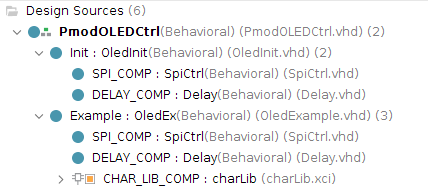
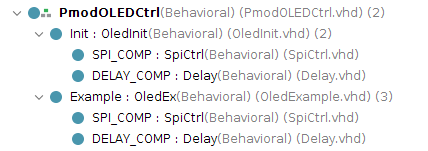
Updated README
By: AndresCasasola (andres97dominguez@gmail.com)

Changed region(s): [[0.0607, 0.4503, 0.9416, 0.9801], [0.0, 0.0265, 0.9112, 0.4238]]

diff --git a/README.md b/README.md
@@ -2,7 +2,9 @@
 
 ZedBoard´s first examples to getting started with vivado and vhdl programing
 
-![ZedBoard](https://github.com/AndresCasasola/ZedBoard-Examples/raw/master/Resources/Images/zedboard.jpg)
+<p align="center">
+  <img width="500" height="349" src="https://github.com/AndresCasasola/ZedBoard-Examples/raw/master/Resources/Images/zedboard.jpg">
+</p>
 
 ## Order to test the projects:
 
@@ -23,7 +25,7 @@ ZedBoard´s first examples to getting started with vivado and vhdl programing
 - Here is the file´s hierarchy in this project:
 
 <p align="center">
-  <img width="428" height="193" src="https://github.com/AndresCasasola/ZedBoard-Examples/raw/master/Resources/Images/oled_hierarchy.png">
+  <img width="428" height="151" src="https://github.com/AndresCasasola/ZedBoard-Examples/raw/master/Resources/Images/oled_hierarchy.png">
 </p>
 
 - The main file is *PmodOLEDCtrl*, it contains *OledInit* and *OledExample*. Each one of them contains an *SpiCtrl* module to send commands and data to the Oled. *OledInit* is used to initialize the OLED screen with configurations as contrast, power on, resolution, layout... *OledExample* is used to send the display data (the text that we want to show) once the Oled is configured and ready to display out. The delay module is used to obtain a time delay for spi comunnications.
@@ -33,9 +35,9 @@ ZedBoard´s first examples to getting started with vivado and vhdl programing
 # References:
 
 1. OLEDController files got from this [repository](https://github.com/faab64/OLED_on_ZedBoard). [2018, October]
-2. Spi Oled driver datasheet: [SSD1306](https://github.com/AndresCasasola/ZedBoard-Examples/raw/master/Resources/Documentation).
-3. Quick hardware information about ZedBoard: [Hardware User Guide](https://github.com/AndresCasasola/ZedBoard-Examples/raw/master/Resources/Documentation).
-4. Deep information about ZedBoard: [Technical Reference Manual](https://github.com/AndresCasasola/ZedBoard-Examples/raw/master/Resources/Documentation).
+2. Spi Oled driver datasheet: [SSD1306](https://github.com/AndresCasasola/ZedBoard-Examples/raw/master/Resources/Documentation/SSD1306_Datasheet_for_096_OLED.pdf).
+3. Quick hardware information about ZedBoard: [Hardware User Guide](https://github.com/AndresCasasola/ZedBoard-Examples/raw/master/Resources/Documentation/zedboard_ug.pdf).
+4. Deep information about ZedBoard: [Technical Reference Manual](https://github.com/AndresCasasola/ZedBoard-Examples/raw/master/Resources/Documentation/ug585-Zynq-7000-Technical_Reference_Manual.pdf).
 
 
 
